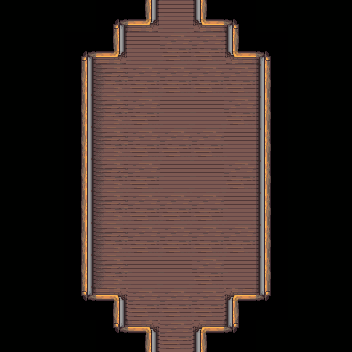
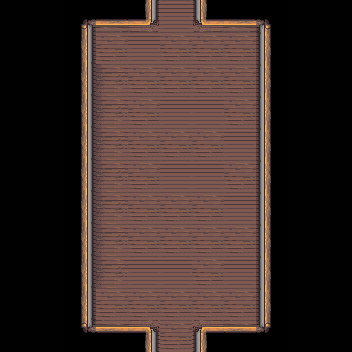
fefefe colliders

diff --git a/Sem1OfficeRevenge/LevelGeneration/LevelGeneration.cs b/Sem1OfficeRevenge/LevelGeneration/LevelGeneration.cs
@@ -57,7 +57,7 @@ namespace Sem1OfficeRevenge
 
             previousRoom = lobbyRoom;
 
-            for (int i = 0; i < 7; i++)
+            for (int i = 0; i < 10; i++)
             {
                 Room room = new Room(textures[rnd.Next(0, 6)], randomRotation);
 
@@ -102,7 +102,7 @@ namespace Sem1OfficeRevenge
             {
                 foreach (Room room in rooms)
                 {
-                    for (int i = 0; i < rnd.Next(3, 8); i++)
+                    for (int i = 0; i < rnd.Next(3, 7); i++)
                     {
                         if (room.texture.Name != "Rooms\\TempLobby1" && room.texture.Name != "Rooms\\Elevator")
                         {
@@ -112,13 +112,6 @@ namespace Sem1OfficeRevenge
                         }
                     }
                 }
-
-                elevator = new Room(GlobalTextures.textures[TextureNames.TileMap6], randomRotation);
-                elevator.position = previousRoom.position;
-                Global.currentScene.Instantiate(elevator);
-
-                MoveRoom(elevator, randomRotation);
-                RoomColliders(elevator, randomRotation);
 
                 doneGenerating = true;
             }
@@ -341,28 +334,27 @@ namespace Sem1OfficeRevenge
                     {
                         case "Rooms\\room3":
                             tempRoom.SetCollisionBox(230, 230, new Vector2(-30 * scale, -30 * scale));
-                            tempRoom.hallwayCol = new Rectangle((int)tempRoom.position.X - 230 * scale, (int)tempRoom.position.Y - 95 * scale, 40 * scale, 190 * scale);
+                            tempRoom.hallwayCol = new Rectangle((int)tempRoom.position.X - 300 * scale, (int)tempRoom.position.Y - 20 * scale, 190 * scale, 40 * scale);
                             break;
 
                         case "Rooms\\room5":
                             tempRoom.SetCollisionBox(230, 230, new Vector2(-30 * scale, -30 * scale));
-                            tempRoom.hallwayCol = new Rectangle((int)tempRoom.position.X - 230 * scale, (int)tempRoom.position.Y - 95 * scale, 40 * scale, 190 * scale);
+                            tempRoom.hallwayCol = new Rectangle((int)tempRoom.position.X - 300 * scale, (int)tempRoom.position.Y - 20 * scale, 190 * scale, 40 * scale);
                             break;
 
                         case "Rooms\\room2":
-                            tempRoom.SetCollisionBox(165, 290, new Vector2(0, 0));
-                            tempRoom.hallwayCol = new Rectangle((int)tempRoom.position.X - 230 * scale, (int)tempRoom.position.Y - 95 * scale, 40 * scale, 190 * scale);
+                            tempRoom.SetCollisionBox(290, 165, new Vector2(0, 0));
+                            tempRoom.hallwayCol = new Rectangle((int)tempRoom.position.X - 300 * scale, (int)tempRoom.position.Y - 20 * scale, 190 * scale, 40 * scale);
                             break;
 
                         case "Rooms\\room4p":
-                            tempRoom.SetCollisionBox(240, 290, new Vector2(0, -30 * scale));
-                            tempRoom.hallwayCol = new Rectangle((int)tempRoom.position.X - 230 * scale, (int)tempRoom.position.Y - 95 * scale, 40 * scale, 190 * scale);
+                            tempRoom.SetCollisionBox(290, 240, new Vector2(0, -30 * scale));
+                            tempRoom.hallwayCol = new Rectangle((int)tempRoom.position.X - 300 * scale, (int)tempRoom.position.Y - 20 * scale, 190 * scale, 40 * scale);
                             break;
 
                         case "Rooms\\Elevator":
-                            tempRoom.SetCollisionBox(100, 75, new Vector2(-115 * scale, 0));
-                            tempRoom.hallwayCol = new Rectangle((int)tempRoom.position.X - 230 * scale, (int)tempRoom.position.Y - 95 * scale, 40 * scale, 190 * scale);
-
+                            tempRoom.SetCollisionBox(75, 100, new Vector2(-115 * scale, 0));
+                            tempRoom.hallwayCol = new Rectangle((int)tempRoom.position.X - 300 * scale, (int)tempRoom.position.Y - 20 * scale, 190 * scale, 40 * scale);
                             break;
 
                         default:
@@ -377,27 +369,27 @@ namespace Sem1OfficeRevenge
                     {
                         case "Rooms\\room3":
                             tempRoom.SetCollisionBox(230, 230, new Vector2(30 * scale, 30 * scale));
-                            tempRoom.hallwayCol = new Rectangle((int)tempRoom.position.X + 190 * scale, (int)tempRoom.position.Y - 95 * scale, 40 * scale, 190 * scale);
+                            tempRoom.hallwayCol = new Rectangle((int)tempRoom.position.X + 100 * scale, (int)tempRoom.position.Y - 20 * scale, 190 * scale, 40 * scale);
                             break;
 
                         case "Rooms\\room5":
                             tempRoom.SetCollisionBox(230, 230, new Vector2(0, 0));
-                            tempRoom.hallwayCol = new Rectangle((int)tempRoom.position.X + 190 * scale, (int)tempRoom.position.Y - 95 * scale, 40 * scale, 190 * scale);
+                            tempRoom.hallwayCol = new Rectangle((int)tempRoom.position.X + 100 * scale, (int)tempRoom.position.Y - 20 * scale, 190 * scale, 40 * scale);
                             break;
 
                         case "Rooms\\room2":
-                            tempRoom.SetCollisionBox(165, 290, new Vector2(0,0));
-                            tempRoom.hallwayCol = new Rectangle((int)tempRoom.position.X + 190 * scale, (int)tempRoom.position.Y - 95 * scale, 40 * scale, 190 * scale);
+                            tempRoom.SetCollisionBox(290, 165, new Vector2(0,0));
+                            tempRoom.hallwayCol = new Rectangle((int)tempRoom.position.X + 100 * scale, (int)tempRoom.position.Y - 20 * scale, 190 * scale, 40 * scale);
                             break;
 
                         case "Rooms\\room4p":
-                            tempRoom.SetCollisionBox(240, 290, new Vector2(0, 30 * scale));
-                            tempRoom.hallwayCol = new Rectangle((int)tempRoom.position.X + 190 * scale, (int)tempRoom.position.Y - 95 * scale, 40 * scale, 190 * scale);
+                            tempRoom.SetCollisionBox(290, 240, new Vector2(0, 30 * scale));
+                            tempRoom.hallwayCol = new Rectangle((int)tempRoom.position.X + 100 * scale, (int)tempRoom.position.Y - 20 * scale, 190 * scale, 40 * scale);
                             break;
 
                         case "Rooms\\Elevator":
-                            tempRoom.SetCollisionBox(100, 75, new Vector2(110 * scale, 0));
-                            tempRoom.hallwayCol = new Rectangle((int)tempRoom.position.X + 190 * scale, (int)tempRoom.position.Y - 95 * scale, 40 * scale, 190 * scale);
+                            tempRoom.SetCollisionBox(75, 100, new Vector2(110 * scale, 0));
+                            tempRoom.hallwayCol = new Rectangle((int)tempRoom.position.X + 100 * scale, (int)tempRoom.position.Y - 20 * scale, 190 * scale, 40 * scale);
                             
                             break;
 
@@ -537,9 +529,9 @@ namespace Sem1OfficeRevenge
 
         public float RandomRotation()
         {
-            randomNum = rnd.Next(0, 4);
+            //randomNum = rnd.Next(0, 4);
 
-            switch (randomNum)
+            switch (rnd.Next(0, 4))
             {
 
                 case 0:

diff --git a/Sem1OfficeRevenge/GameObject.cs b/Sem1OfficeRevenge/GameObject.cs
@@ -188,7 +188,7 @@ namespace Sem1OfficeRevenge
             for (int i = 0; i < 4; i++)
             {
                 Vector2 dir = corners[i] - origin;
-                dir = Vector2.Transform(dir, Matrix.CreateRotationZ(rotation));
+                //dir = Vector2.Transform(dir, Matrix.CreateRotationZ(rotation));
                 corners[i] = dir + origin;
             }
 
@@ -219,7 +219,7 @@ namespace Sem1OfficeRevenge
             for (int i = 0; i < 4; i++)
             {
                 Vector2 dir = corners[i] - origin;
-                dir = Vector2.Transform(dir, Matrix.CreateRotationZ(rotation));
+               // dir = Vector2.Transform(dir, Matrix.CreateRotationZ(rotation));
                 corners[i] = dir + origin;
             }
 

diff --git a/Sem1OfficeRevenge/Enemy/CivillianEnemy.cs b/Sem1OfficeRevenge/Enemy/CivillianEnemy.cs
@@ -70,14 +70,12 @@ namespace Sem1OfficeRevenge
                 if (Collision.ContainsEitherBox(this, room.collisionBox, room.hallwayCol))
                 {
                     isInsideRoom = true;
-                    //this.color = Color.White;
                     center = room.collisionBox;
                     break;
                 }
                 else
                 {
-                    //ChangeDirection();
-                    //this.color = Color.Gray;
+
                 }
 
             }

diff --git a/Sem1OfficeRevenge/Scenes/TestBaseScene.cs b/Sem1OfficeRevenge/Scenes/TestBaseScene.cs
@@ -22,7 +22,7 @@ namespace Sem1OfficeRevenge
 
             //Level Generation
             lvlGen = new LevelGeneration();
-            lvlGen.GenerateSecondWorld();
+            lvlGen.GenerateWorld();
 
             //Player Generation
             Global.player = new Player();
